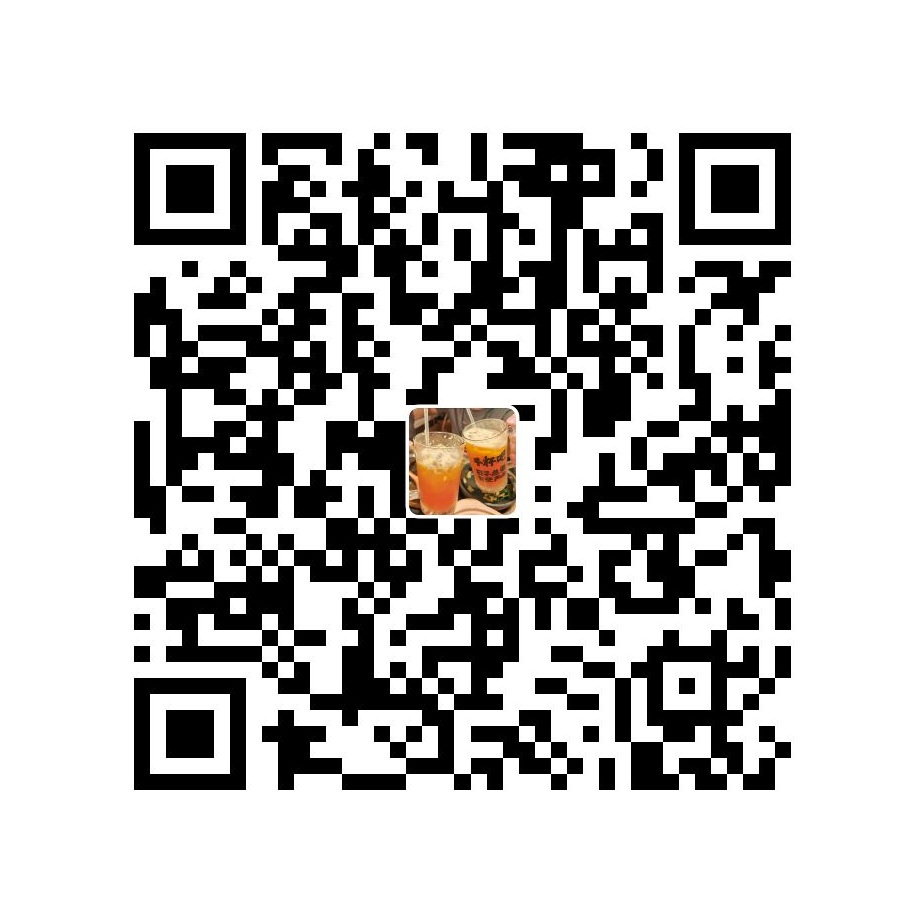
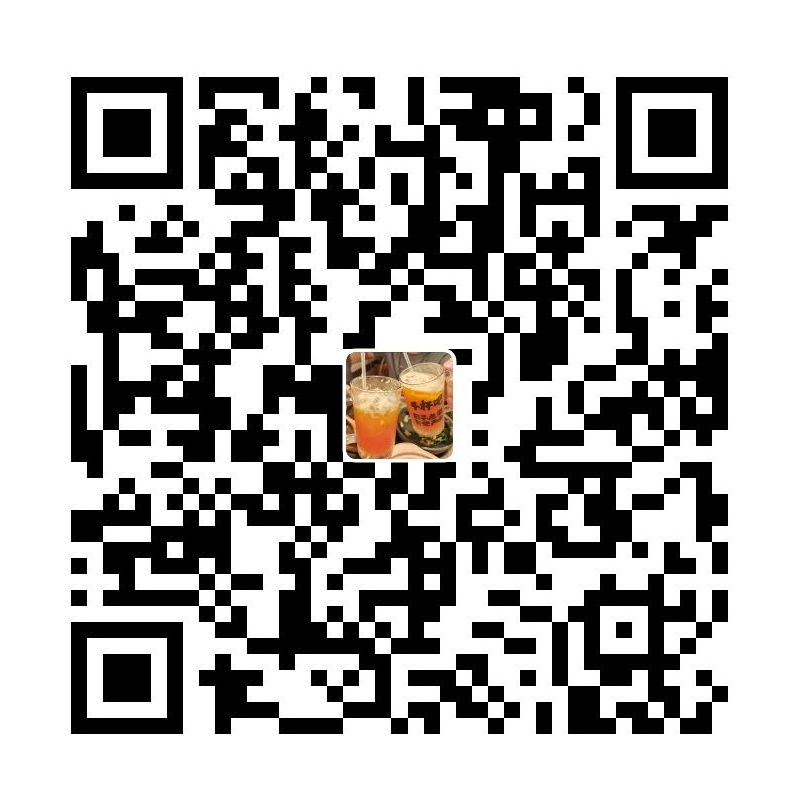
chore(donate): 更新微信与支付宝收款码
- docs/images/ 与 src/assets/ 同步替换为新收款码（微信 425×422、支付宝 799×803）
- 修正 donate-dialog.tsx 中过期的尺寸注释（原 1121×1527 / 1080×1620）

diff --git a/src/components/donate-dialog.tsx b/src/components/donate-dialog.tsx
@@ -58,8 +58,8 @@ export function DonateDialog({
           <DialogTitle>{t("wbSettings.donate.title")}</DialogTitle>
           <DialogDescription>{t("wbSettings.donate.desc")}</DialogDescription>
         </DialogHeader>
-        {/* 两张收款码的长宽比并不相同（1121×1527 / 1080×1620），若各自按宽度铺满，
-            高度会差出十几像素、下面的渠道名对不齐。这里给**统一高度的容器 + object-contain**：
+        {/* 两张收款码的像素尺寸不同（微信 425×422 / 支付宝 799×803），若各自按宽度铺满，
+            高度会有偏差、下面的渠道名对不齐。这里给**统一高度的容器 + object-contain**：
             图按自身比例缩放到容器内，多出来的部分留白，两张码的视觉高度与说明位置因此一致。
             **不要用 `object-cover`** —— 那会把二维码裁掉边缘，扫不出来。 */}
         <div className="grid grid-cols-2 gap-4">
